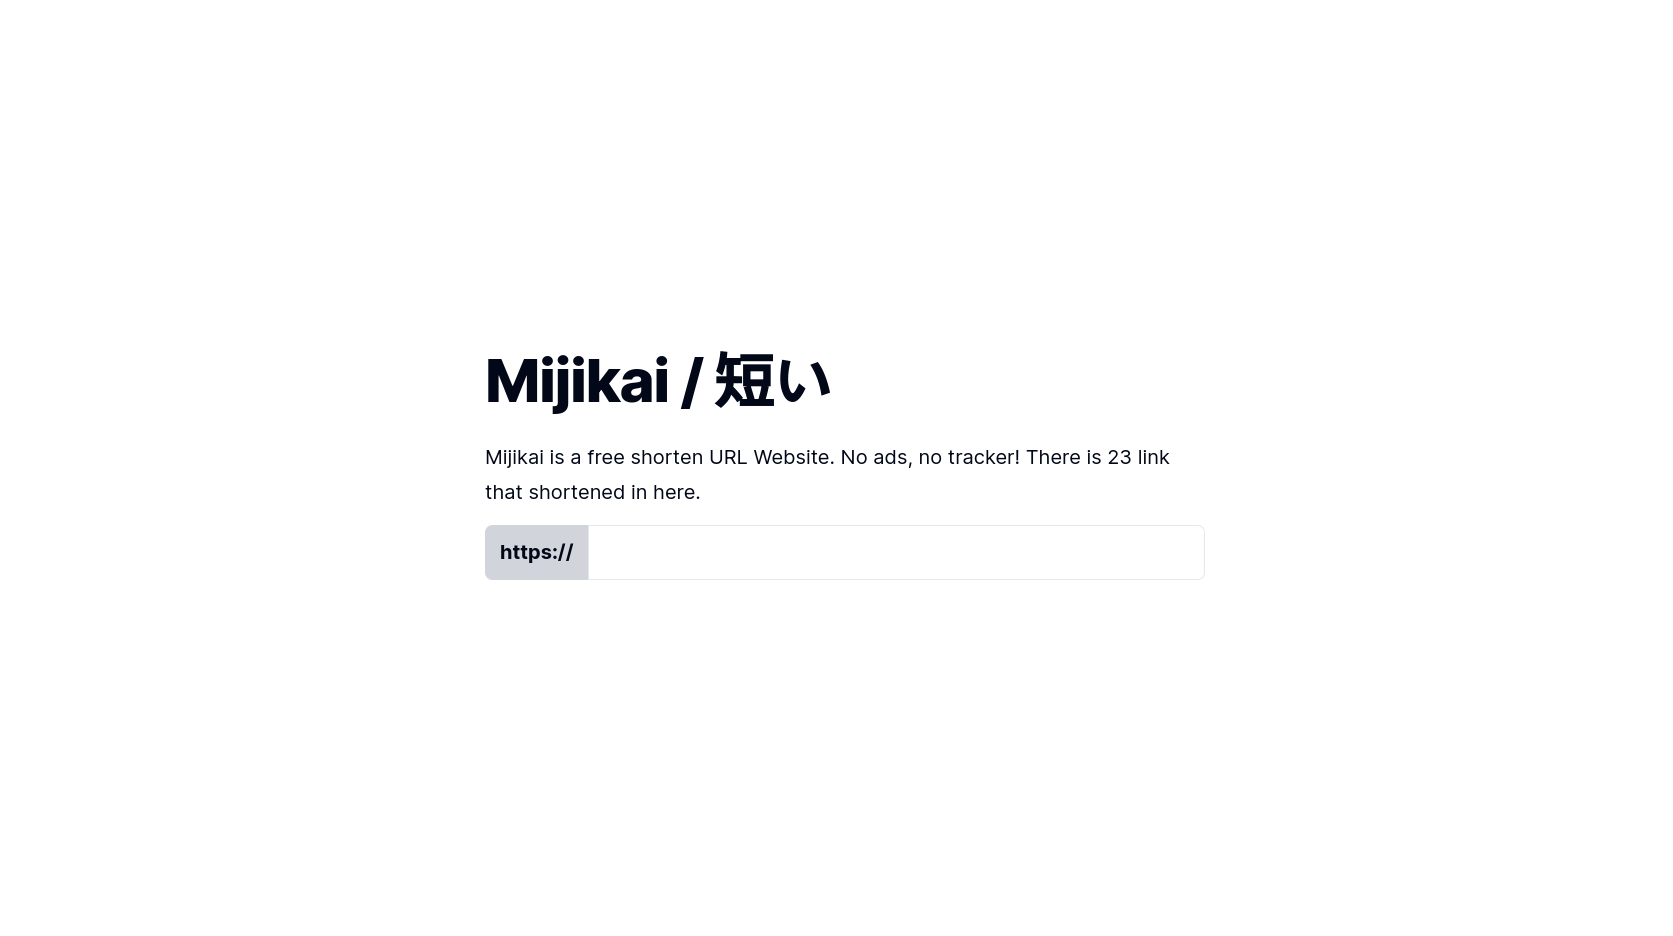
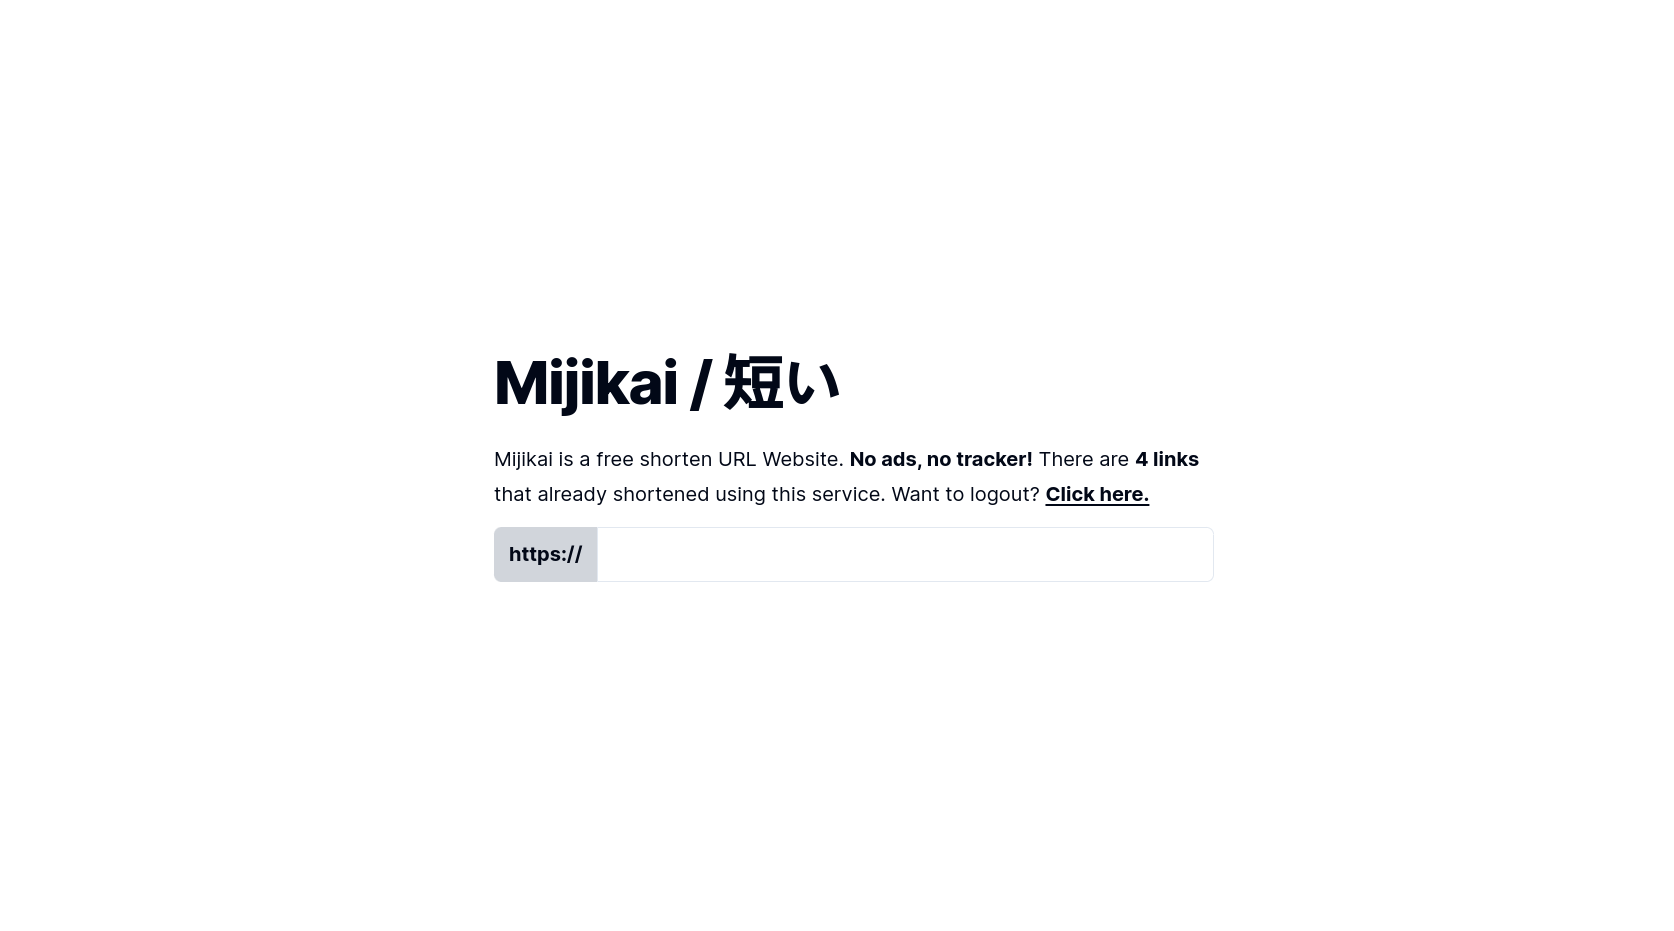
docs: replace old ss with new ss

Changed region(s): [[0.2797, 0.3738, 0.7149, 0.623]]

diff --git a/README.md b/README.md
@@ -1,13 +1,14 @@
 <div align="center">
-  <img src="" width="200px" height="200px" alt="logo" />
+  <img src="https://raw.githubusercontent.com/haikelz/mijikai/master/public/docs/logo.png?token=GHSAT0AAAAAACIFDD27GZYNY6RUNEZGSTRWZJJXDSQ" width="200px" height="200px" alt="logo" />
   <h1>Mijikai</h1>
   <p>Mijikai is a free shorten URL Website. <b>No ads, no tracker!</b></p>
 </div>
 
-## Key Features
+## Features
 
 - Shorten long URL
 - Convert URL to QR Code
+- Show users link list
 
 ## Screenshots
 
@@ -16,6 +17,8 @@
 ![ss 2](public/docs/ss-2.png)
 
 ![ss 3](public/docs/ss-3.png)
+
+![ss 4](public/docs/ss-4.png)
 
 ## Tech Stack
 
